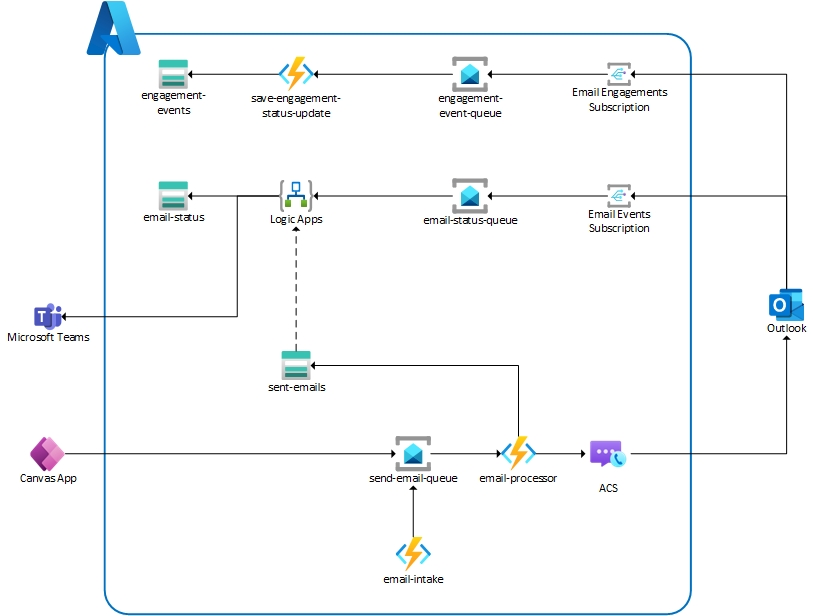
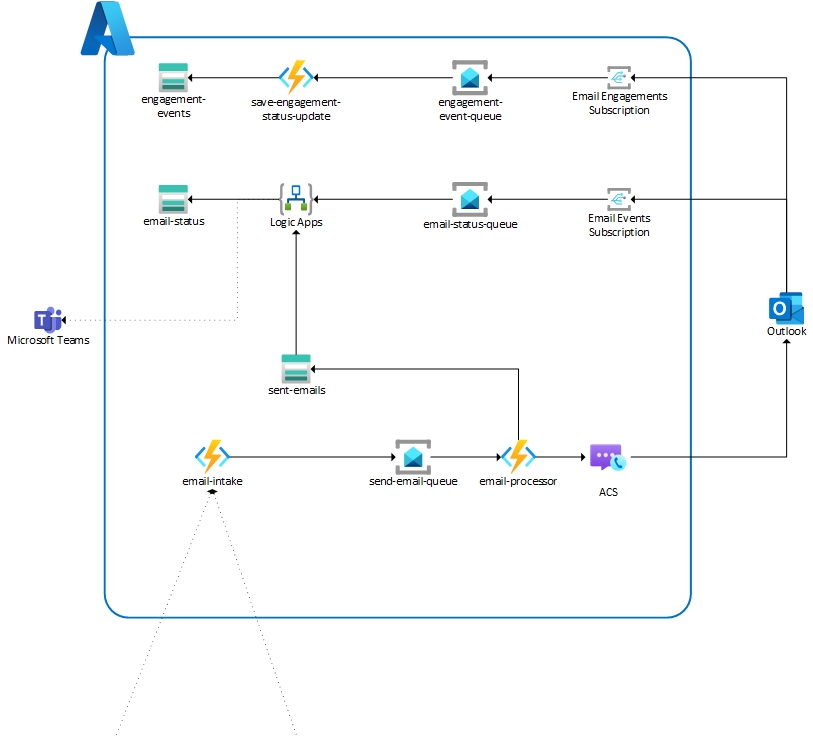
fixed arch diagram and updated readme

diff --git a/docs/azure-communication-services/acs-readme.md b/docs/azure-communication-services/acs-readme.md
@@ -65,4 +65,4 @@ To send a test message you can send a `POST` message to the `email-intake` funct
 }
 ```
 
-This function is a simple frontend to intake queue.  It will take the HTTP request, parse the body, and submit it to the queue.  Once the message has arrived in the queue the `email-request-processor` function will build a message and submit an email for sending to ACS.  The interaction with ACS is done through the ACS sdk nuget package [Azure.Communication.Email (1.0.0-beta.1)](https://www.nuget.org/packages/Azure.Communication.Email). Detailed instrutions how to use the SDK can be found on the packages nuget site.
+This function is a simple frontend to intake queue.  It will take the HTTP request, parse the body, validate it, and if valid submit it to the queue.  Once the message has arrived in the queue the `email-request-processor` function will build a message and send it to ACS for transmit.  The interaction with ACS is done through the ACS sdk [Azure.Communication.Email (1.0.0-beta.1)](https://www.nuget.org/packages/Azure.Communication.Email). 
